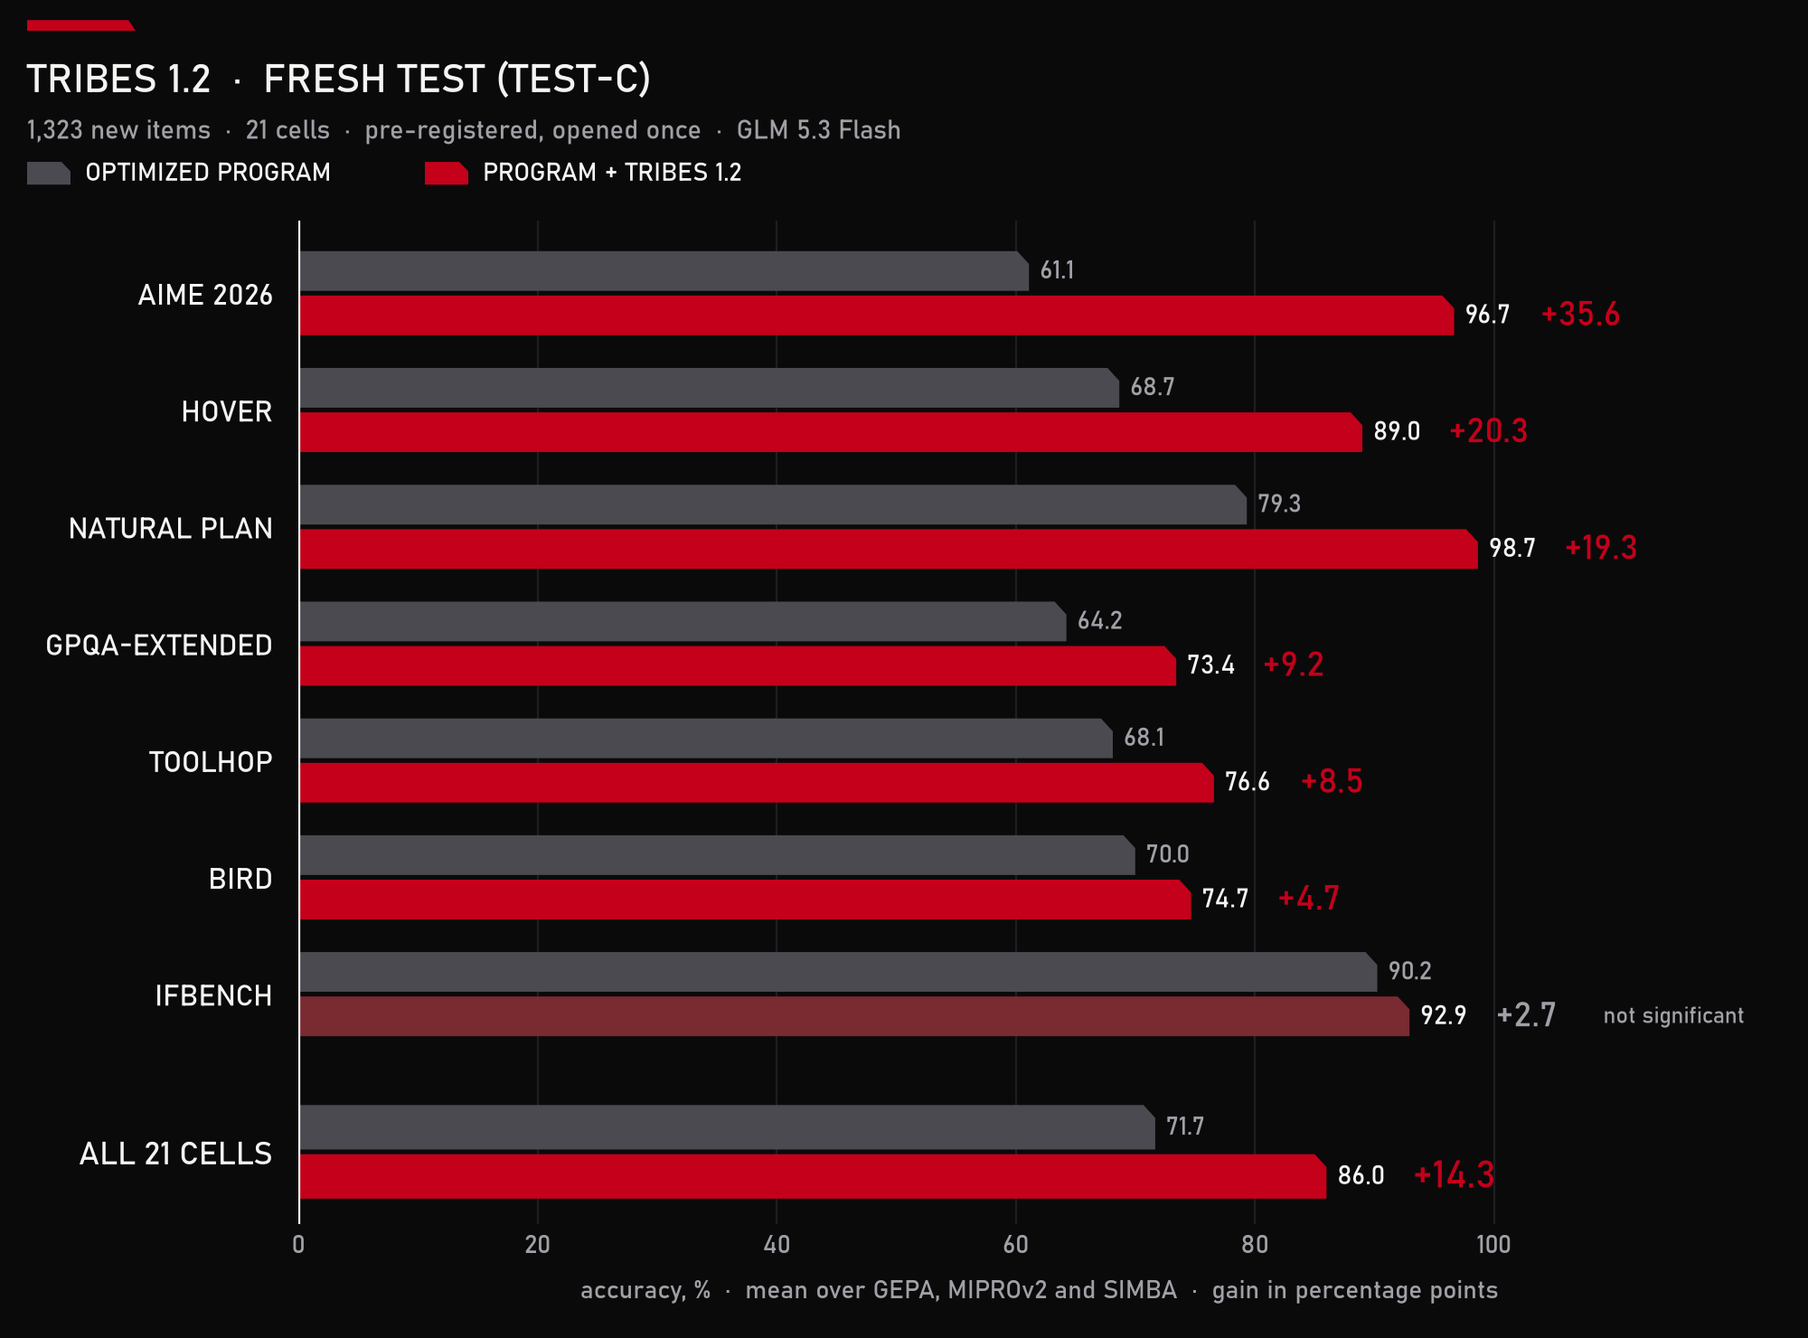
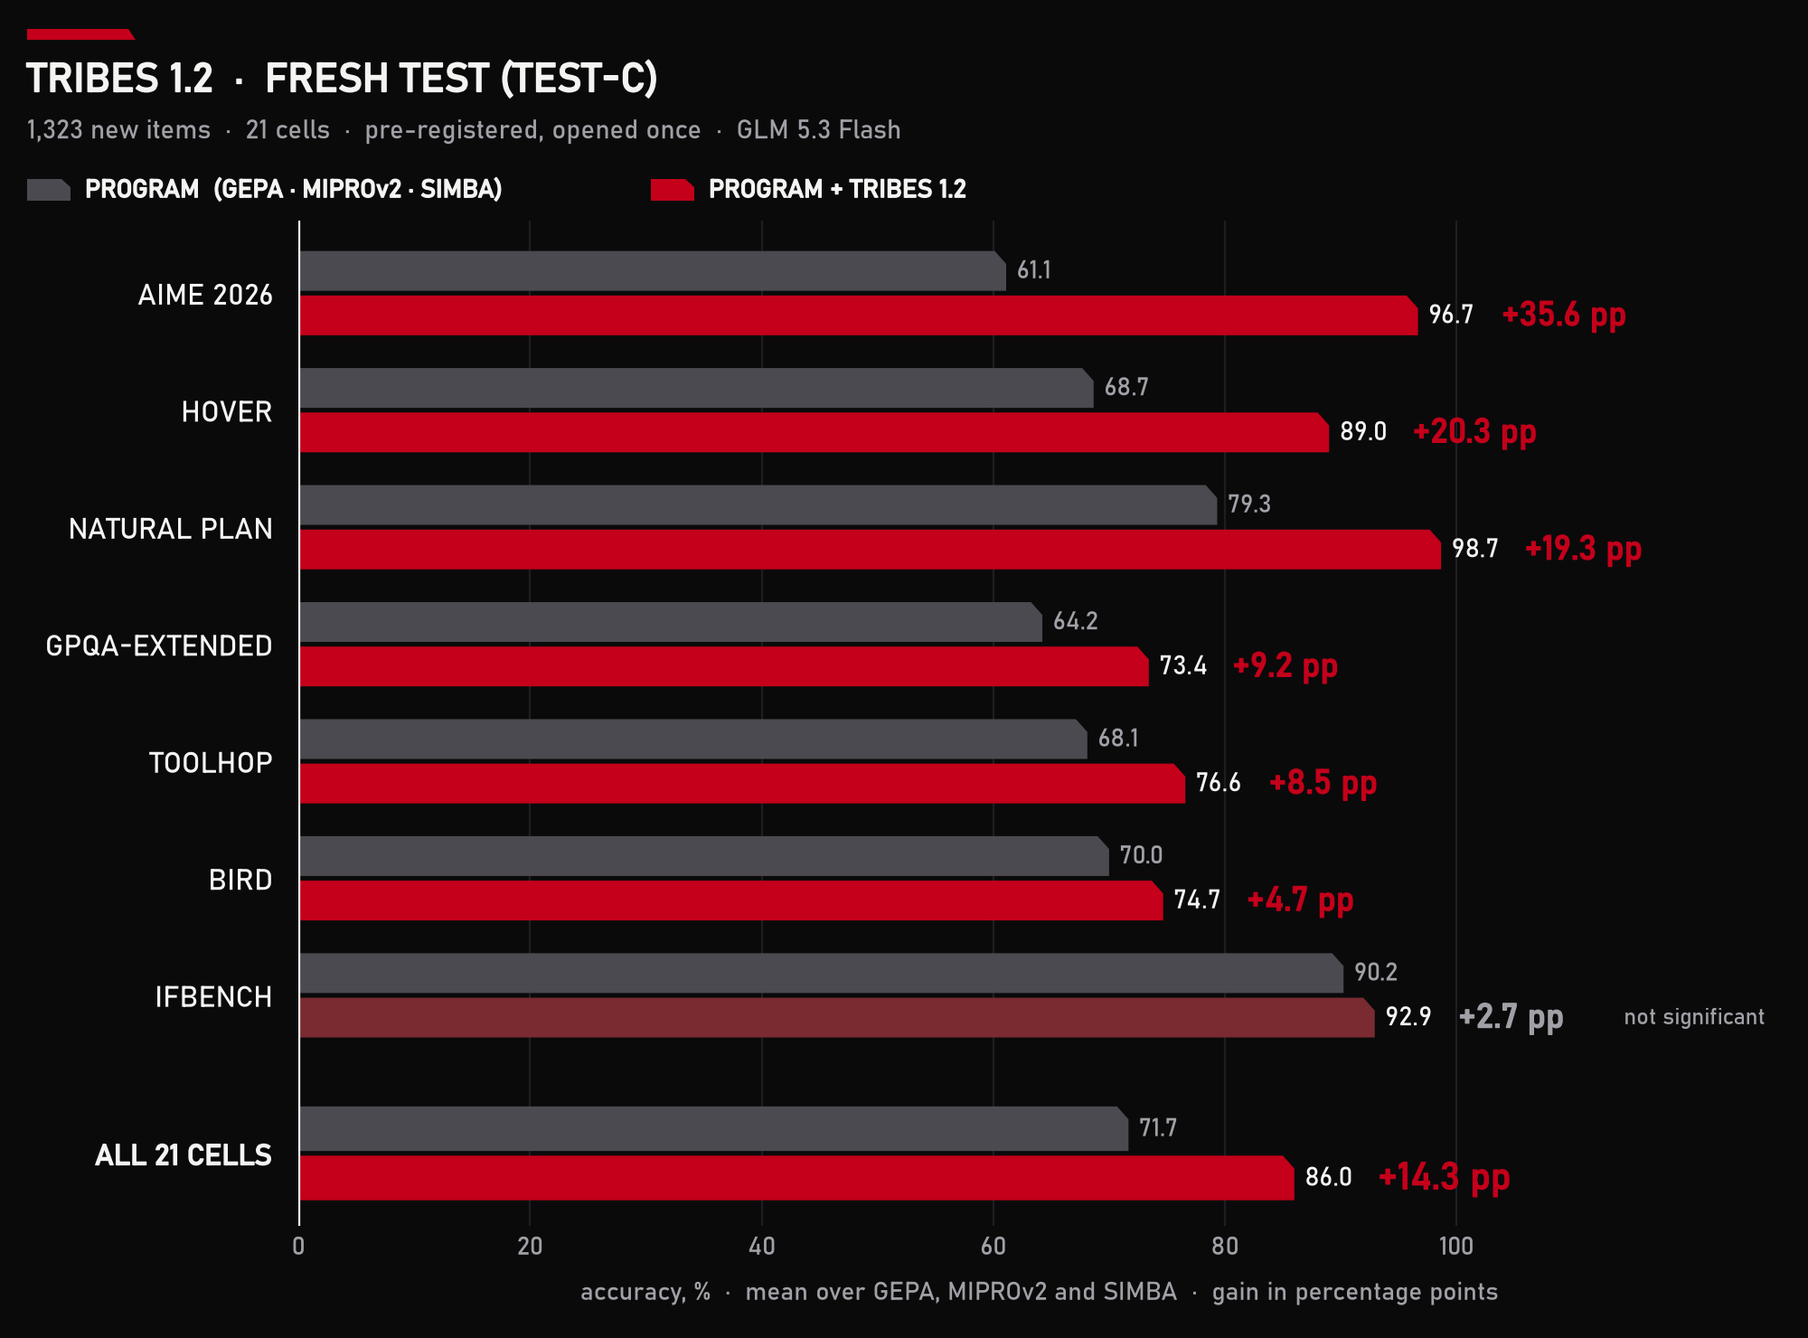
Results read GEPA vs GEPA + TRIBES: per-optimizer chart and table, gains in pp at the end of the red bars, table headers named <optimizer> + TRIBES

diff --git a/assets/src/chart_testc.py b/assets/src/chart_testc.py
@@ -1,5 +1,7 @@
-"""TEST-C chart: per benchmark, the optimizer's own program (grey) and the same program with TRIBES 1.2 (red),
-accuracy in %, mean over GEPA, MIPROv2 and SIMBA; the gain is printed at the end of the red bar.
+"""TEST-C charts: the optimizer's own program (grey) and the same program with TRIBES 1.2 (red), accuracy in %; the gain
+in percentage points is printed at the end of the red bar.
+  chart-testc-*      per benchmark, mean over GEPA, MIPROv2 and SIMBA
+  chart-testc-opt-*  per optimizer (GEPA vs GEPA + TRIBES, ...), mean over the seven benchmarks
 Source: research/results/testc_result.json. Usage: python chart_testc.py OUT_DIR"""
 import json
 import sys
@@ -9,7 +11,7 @@ import matplotlib
 
 matplotlib.use("Agg")
 import matplotlib.pyplot as plt  # noqa: E402
-from matplotlib import font_manager  # noqa: E402
+from matplotlib import font_manager, patheffects  # noqa: E402
 from matplotlib.patches import Polygon  # noqa: E402
 
 OUT = Path(sys.argv[1])
@@ -17,19 +19,35 @@ SRC = Path(__file__).resolve().parents[2] / "research/results/testc_result.json"
 font_manager.fontManager.addfont("C:/Windows/Fonts/bahnschrift.ttf")
 plt.rcParams["font.family"] = "Bahnschrift"
 
+
+def heavy(color, w=0.9):
+    """Bahnschrift is a variable font matplotlib reads at one weight: thicken the strokes instead."""
+    return [patheffects.withStroke(linewidth=w, foreground=color)]
+
+
 NAMES = {"aime": "AIME 2026", "hover": "HoVer", "natplan": "NATURAL PLAN", "gpqa": "GPQA-extended",
          "toolhop": "ToolHop", "bird": "BIRD", "ifbench": "IFBench"}
+OPTS = {"gepa": "GEPA", "mipro": "MIPROv2", "simba": "SIMBA"}
 res = json.load(open(SRC))
 cells = [c for c in res["cells"] if c["ok"]]
-rows = []
+P = res["primary"]
+
+# per benchmark: (label, grey label, red label, program, tribes, gain, significant)
+bench = []
 for ds, e in res["per_benchmark_holm"].items():
     cs = [c["info"] for c in cells if c["ds"] == ds]
     prog = sum(c["prog"] for c in cs) / len(cs)
-    rows.append((NAMES[ds], prog, prog + e["mean_pp"], e["mean_pp"], e["holm_claim"]))
-rows.sort(key=lambda r: -r[3])
-P = res["primary"]
-prog_all = sum(r[1] for r in rows) / len(rows)  # every benchmark has three cells: the cell mean equals this
-rows.append((f"ALL {P['cells']} CELLS", prog_all, prog_all + P["mean_pp"], P["mean_pp"], P["claim"]))
+    bench.append((NAMES[ds].upper(), None, None, prog, prog + e["mean_pp"], e["mean_pp"], e["holm_claim"]))
+bench.sort(key=lambda r: -r[5])
+prog_all = sum(r[3] for r in bench) / len(bench)  # every benchmark has three cells: the cell mean equals this
+bench.append((f"ALL {P['cells']} CELLS", None, None, prog_all, prog_all + P["mean_pp"], P["mean_pp"], P["claim"]))
+
+# per optimizer: mean over its seven cells (descriptive)
+opt = []
+for o, lab in OPTS.items():
+    cs = [c["info"] for c in cells if c["opt"] == o]
+    pr, tr = sum(c["prog"] for c in cs) / len(cs), sum(c["v12"] for c in cs) / len(cs)
+    opt.append((lab, lab, f"{lab} + TRIBES", pr, tr, tr - pr, True))
 
 THEMES = {
     "light": dict(bg="#FFFFFF", ink="#0A0A0B", muted="#5C5C62", grid="#E9E9EB", red="#A0000C", grey="#B9B9BE",
@@ -45,57 +63,81 @@ def bar(ax, y, v, color, h, cut=0.11):
     ax.add_patch(Polygon(pts, closed=True, facecolor=color, edgecolor="none", zorder=3))
 
 
-for name, t in THEMES.items():
-    fig, ax = plt.subplots(figsize=(10, 7.4), dpi=200)
-    fig.patch.set_facecolor(t["bg"])
-    ax.set_facecolor(t["bg"])
-    step, h, gap = 1.0, 0.34, 0.04
-    ys, y = [], 0.0
-    for i, r in enumerate(rows):
-        if i == len(rows) - 1:
-            y += 0.35  # a gap before the overall row
-        ys.append(y)
-        y += step
-    ys = [max(ys) - v for v in ys]
-    for (lab, prog, tri, gain, sig), yc in zip(rows, ys):
-        last = lab.startswith("ALL")
-        hh = h * (1.12 if last else 1.0)
-        yp, yt = yc + hh / 2 + gap / 2, yc - hh / 2 - gap / 2
-        bar(ax, yp, prog, t["grey"], hh)
-        bar(ax, yt, tri, t["red"] if sig else t["ns"], hh)
-        ax.text(prog + 0.9, yp, f"{prog:.1f}", va="center", ha="left", fontsize=10, color=t["muted"])
-        ax.text(tri + 0.9, yt, f"{tri:.1f}", va="center", ha="left", fontsize=10.5, color=t["ink"])
-        ax.text(tri + 7.2, yt, f"+{gain:.1f}", va="center", ha="left", fontsize=15 if last else 13.5,
-                color=t["red"] if sig else t["muted"], fontweight="bold")
-        if not sig:
-            ax.text(tri + 16.2, yt, "not significant", va="center", ha="left", fontsize=9, color=t["muted"])
-    ax.set_xlim(0, 124)
-    ax.set_ylim(min(ys) - 0.62, max(ys) + 0.62)
-    ax.set_yticks(ys, [r[0].upper() for r in rows])
-    for lbl, r in zip(ax.get_yticklabels(), rows):
-        lbl.set_color(t["ink"])
-        lbl.set_fontsize(12.5 if r[0].startswith("ALL") else 11.5)
-        lbl.set_fontweight("bold" if r[0].startswith("ALL") else "normal")
-    ax.tick_params(axis="y", length=0, pad=10)
-    ax.set_xticks(range(0, 101, 20))
-    ax.tick_params(axis="x", colors=t["muted"], labelsize=10, length=0)
-    ax.grid(axis="x", color=t["grid"], lw=0.8, zorder=0)
-    for s in ax.spines.values():
-        s.set_visible(False)
-    ax.axvline(0, color=t["ink"], lw=1.2, zorder=4)
-    ax.set_xlabel("accuracy, %  ·  mean over GEPA, MIPROv2 and SIMBA  ·  gain in percentage points",
-                  color=t["muted"], fontsize=10, labelpad=8)
-    fig.text(0.015, 0.955, "TRIBES 1.2  ·  FRESH TEST (TEST-C)", fontsize=16, fontweight="bold", color=t["ink"],
-             va="top")
-    fig.text(0.015, 0.912, "1,323 new items  ·  21 cells  ·  pre-registered, opened once  ·  GLM 5.3 Flash",
-             fontsize=10.5, color=t["muted"], va="top")
-    fig.add_artist(Polygon([(0.015, 0.977), (0.075, 0.977), (0.071, 0.985), (0.015, 0.985)], closed=True,
-                           transform=fig.transFigure, facecolor=t["red"], edgecolor="none"))
-    for x0, col, txt in ((0.015, t["grey"], "OPTIMIZED PROGRAM"), (0.235, t["red"], "PROGRAM + TRIBES 1.2")):
-        fig.add_artist(Polygon([(x0, 0.862), (x0 + 0.024, 0.862), (x0 + 0.024, 0.872), (x0 + 0.019, 0.879), (x0, 0.879)],
-                               closed=True, transform=fig.transFigure, facecolor=col, edgecolor="none"))
-        fig.text(x0 + 0.032, 0.8705, txt, fontsize=10, color=t["ink"], va="center", fontweight="bold")
-    fig.subplots_adjust(left=0.165, right=0.985, top=0.835, bottom=0.085)
-    fig.savefig(OUT / f"chart-testc-{name}.png", facecolor=t["bg"])
-    plt.close(fig)
-print("ok", [(r[0], round(r[1], 1), round(r[2], 1), r[3]) for r in rows])
+def draw(rows, fname, title, subtitle, legend, xlabel, size, left, per_bar):
+    for name, t in THEMES.items():
+        fig, ax = plt.subplots(figsize=size, dpi=200)
+        fig.patch.set_facecolor(t["bg"])
+        ax.set_facecolor(t["bg"])
+        h, gap = 0.34, 0.04
+        ys, y = [], 0.0
+        for i, r in enumerate(rows):
+            if r[0].startswith("ALL"):
+                y += 0.35  # a gap before the overall row
+            ys.append(y)
+            y += 1.0
+        ys = [max(ys) - v for v in ys]
+        ticks, labels, colors = [], [], []
+        for (lab, gl, rl, prog, tri, gain, sig), yc in zip(rows, ys):
+            last = lab.startswith("ALL")
+            hh = h * (1.12 if last else 1.0)
+            yp, yt = yc + hh / 2 + gap / 2, yc - hh / 2 - gap / 2
+            bar(ax, yp, prog, t["grey"], hh)
+            bar(ax, yt, tri, t["red"] if sig else t["ns"], hh)
+            ax.text(prog + 0.9, yp, f"{prog:.1f}", va="center", ha="left", fontsize=10, color=t["muted"])
+            ax.text(tri + 0.9, yt, f"{tri:.1f}", va="center", ha="left", fontsize=10.5, color=t["ink"])
+            c = t["red"] if sig else t["muted"]
+            ax.text(tri + 7.2, yt, f"+{gain:.1f} pp", va="center", ha="left", fontsize=15 if last else 13.5, color=c,
+                    path_effects=heavy(c, 0.5))
+            if not sig:
+                ax.text(tri + 21.5, yt, "not significant", va="center", ha="left", fontsize=9, color=t["muted"])
+            if per_bar:
+                ticks += [yp, yt]
+                labels += [gl, rl]
+                colors += [t["muted"], t["red"]]
+            else:
+                ticks.append(yc)
+                labels.append(lab)
+                colors.append(t["ink"])
+        ax.set_xlim(0, 128)
+        ax.set_ylim(min(ys) - 0.62, max(ys) + 0.62)
+        ax.set_yticks(ticks, labels)
+        for lbl, col in zip(ax.get_yticklabels(), colors):
+            lbl.set_color(col)
+            lbl.set_fontsize(12.5 if per_bar else 11.5)
+            if per_bar and col == t["red"] or lbl.get_text().startswith("ALL"):
+                lbl.set_path_effects(heavy(col, 0.5))
+        ax.tick_params(axis="y", length=0, pad=10)
+        ax.set_xticks(range(0, 101, 20))
+        ax.tick_params(axis="x", colors=t["muted"], labelsize=10, length=0)
+        ax.grid(axis="x", color=t["grid"], lw=0.8, zorder=0)
+        for s in ax.spines.values():
+            s.set_visible(False)
+        ax.axvline(0, color=t["ink"], lw=1.2, zorder=4)
+        ax.set_xlabel(xlabel, color=t["muted"], fontsize=10, labelpad=8)
+        H = size[1]
+        top = 1 - 0.33 / H
+        fig.text(0.015, top, title, fontsize=16, color=t["ink"], va="top", path_effects=heavy(t["ink"], 0.6))
+        fig.text(0.015, top - 0.32 / H, subtitle, fontsize=10.5, color=t["muted"], va="top")
+        yb = 1 - 0.22 / H
+        fig.add_artist(Polygon([(0.015, yb), (0.075, yb), (0.071, yb + 0.06 / H), (0.015, yb + 0.06 / H)], closed=True,
+                               transform=fig.transFigure, facecolor=t["red"], edgecolor="none"))
+        if legend:
+            yl = top - 0.72 / H
+            for x0, col, txt in ((0.015, t["grey"], legend[0]), (0.36, t["red"], legend[1])):
+                fig.add_artist(Polygon([(x0, yl - 0.06 / H), (x0 + 0.024, yl - 0.06 / H), (x0 + 0.024, yl + 0.015 / H),
+                                        (x0 + 0.019, yl + 0.06 / H), (x0, yl + 0.06 / H)],
+                                       closed=True, transform=fig.transFigure, facecolor=col, edgecolor="none"))
+                fig.text(x0 + 0.032, yl, txt, fontsize=10, color=t["ink"], va="center", path_effects=heavy(t["ink"], 0.5))
+        fig.subplots_adjust(left=left, right=0.985, top=1 - (1.22 if legend else 0.95) / H, bottom=0.62 / H)
+        fig.savefig(OUT / f"{fname}-{name}.png", facecolor=t["bg"])
+        plt.close(fig)
+
+
+draw(bench, "chart-testc", "TRIBES 1.2  ·  FRESH TEST (TEST-C)",
+     "1,323 new items  ·  21 cells  ·  pre-registered, opened once  ·  GLM 5.3 Flash",
+     ("PROGRAM  (GEPA · MIPROv2 · SIMBA)", "PROGRAM + TRIBES 1.2"),
+     "accuracy, %  ·  mean over GEPA, MIPROv2 and SIMBA  ·  gain in percentage points", (10, 7.4), 0.165, False)
+draw(opt, "chart-testc-opt", "EVERY OPTIMIZER, PLUS TRIBES 1.2  ·  TEST-C",
+     "accuracy, %, mean over the seven benchmarks of each optimizer  ·  1,323 new items  ·  GLM 5.3 Flash", None,
+     "accuracy, %  ·  gain in percentage points", (10, 4.1), 0.2, True)
+print("ok", [(r[0], round(r[3], 1), round(r[4], 1), round(r[5], 2)) for r in bench + opt])

diff --git a/README.md b/README.md
@@ -40,12 +40,25 @@ Inference-time answer selection for optimized DSPy programs
 
 | | AIME 2026 | HoVer | NATURAL PLAN | GPQA-ext. | ToolHop | BIRD | IFBench | **all 21 cells** |
 |---|---|---|---|---|---|---|---|---|
-| optimized program | 61.1 | 68.7 | 79.3 | 64.2 | 68.1 | 70.0 | 90.2 | **71.7** |
-| **+ TRIBES 1.2** | **96.7** | **89.0** | **98.7** | **73.4** | **76.6** | **74.7** | 92.9 | **86.0** |
-| gain, pp | **+35.6** | **+20.3** | **+19.3** | **+9.2** | **+8.5** | **+4.7** | +2.7 | **+14.3** |
+| program (GEPA · MIPROv2 · SIMBA) | 61.1 | 68.7 | 79.3 | 64.2 | 68.1 | 70.0 | 90.2 | **71.7** |
+| **program + TRIBES 1.2** | **96.7** | **89.0** | **98.7** | **73.4** | **76.6** | **74.7** | 92.9 | **86.0** |
+| gain | **+35.6 pp** | **+20.3 pp** | **+19.3 pp** | **+9.2 pp** | **+8.5 pp** | **+4.7 pp** | +2.7 pp | **+14.3 pp** |
 
-Accuracy in %, mean over the three optimizers; bold gains are significant (one-sided α = 0.025, Holm over the seven
-benchmarks; all cells: 95 % CI [+11.9, +16.8]). Details, every cell and the earlier tests: [Results](#results).
+<p align="center">
+  <picture>
+    <source media="(prefers-color-scheme: dark)" srcset="https://raw.githubusercontent.com/daglar-dragomirov/tribes/main/assets/chart-testc-opt-dark.png">
+    <img src="https://raw.githubusercontent.com/daglar-dragomirov/tribes/main/assets/chart-testc-opt-light.png" alt="TEST-C per optimizer: GEPA vs GEPA + TRIBES, MIPROv2 vs MIPROv2 + TRIBES, SIMBA vs SIMBA + TRIBES" width="820">
+  </picture>
+</p>
+
+| | GEPA | **GEPA + TRIBES** | MIPROv2 | **MIPROv2 + TRIBES** | SIMBA | **SIMBA + TRIBES** |
+|---|---|---|---|---|---|---|
+| accuracy, % (7 benchmarks) | 70.9 | **87.3** | 71.0 | **85.5** | 73.0 | **85.1** |
+| gain | | **+16.4 pp** | | **+14.5 pp** | | **+12.1 pp** |
+
+Accuracy in %; gains in percentage points (pp) over the same optimizer's own program on the same items. Bold gains in
+the benchmark table are significant (one-sided α = 0.025, Holm over the seven benchmarks; all cells: 95 % CI
+[+11.9, +16.8]); the per-optimizer rows are descriptive. Details, every cell and the earlier tests: [Results](#results).
 
 ---
 
@@ -189,7 +202,7 @@ bound. — : no held-out items for that benchmark in that test. Bold in the 1.2 
 **Fresh test (TEST-C, TRIBES 1.2)** — 1,323 new items, used nowhere in development or in the earlier tests; the 1.2
 settings and the analysis were pre-registered before any model saw them (chart at the top of this page):
 
-| benchmark (test items per cell) | over GEPA | over MIPROv2 | over SIMBA | benchmark mean, 95 % CI |
+| benchmark (test items per cell) | GEPA + TRIBES | MIPROv2 + TRIBES | SIMBA + TRIBES | benchmark mean, 95 % CI |
 |---|---|---|---|---|
 | AIME 2026 (30, shared) | +36.7 | +43.3 | +26.7 | **+35.6** [+24.4, +47.8] |
 | HoVer (100) | +23.0 | +19.0 | +19.0 | **+20.3** [+16.0, +25.0] |
@@ -214,7 +227,7 @@ policy and the analysis were pre-registered before any model saw them:
   <img src="https://raw.githubusercontent.com/daglar-dragomirov/tribes/main/assets/chart-testb-light.png" alt="TEST-B: TRIBES 1.1 minus the program per benchmark, 95 % CI" width="760">
 </picture>
 
-| benchmark (test items) | over GEPA | over MIPROv2 | over SIMBA | benchmark mean, 95 % CI |
+| benchmark (test items) | GEPA + TRIBES | MIPROv2 + TRIBES | SIMBA + TRIBES | benchmark mean, 95 % CI |
 |---|---|---|---|---|
 | HoVer (150) | +12.7 | +8.0 | +16.7 | **+12.4** [+8.9, +16.4] |
 | HotpotQA (200) | +7.0 | +3.0 | +2.5 | **+4.2** [+1.8, +6.8] |
@@ -230,7 +243,7 @@ more sampling.
 
 **Sealed test (TEST-A)** — opened once, after the rule and every per-task decision were frozen (TRIBES 1.0-lite):
 
-| benchmark (test items) | over GEPA | over MIPROv2 | over SIMBA |
+| benchmark (test items) | GEPA + TRIBES | MIPROv2 + TRIBES | SIMBA + TRIBES |
 |---|---|---|---|
 | NATURAL PLAN (200) | **+13.5** | **+17.0** | **+10.5** |
 | LiveCodeBench (82) | **+11.0** | **+14.6** | **+13.4** |
@@ -243,7 +256,7 @@ Bold: 95 % confidence interval above zero. No cell has its interval below zero.
 
 **Development (TRIBES 1.1)** — 13 benchmarks × 3 optimizers = 36 cells, post hoc:
 
-| benchmark | over GEPA | over MIPROv2 | over SIMBA |
+| benchmark | GEPA + TRIBES | MIPROv2 + TRIBES | SIMBA + TRIBES |
 |---|---|---|---|
 | AIME | +38.0 | +23.3 | +32.0 |
 | BIRD | +28.5 | +15.0 | +26.0 |
@@ -261,9 +274,9 @@ Bold: 95 % confidence interval above zero. No cell has its interval below zero.
 
 | | TRIBES 1.1 | 1.0 full | 1.0 lite |
 |---|---|---|---|
-| over GEPA | +11.9 | +10.1 | +9.3 |
-| over MIPROv2 | +10.8 | +8.7 | +8.4 |
-| over SIMBA | +12.1 | +9.6 | +8.9 |
+| GEPA + TRIBES | +11.9 | +10.1 | +9.3 |
+| MIPROv2 + TRIBES | +10.8 | +8.7 | +8.4 |
+| SIMBA + TRIBES | +12.1 | +9.6 | +8.9 |
 | **all 36 cells** | **+11.6** | **+9.5** | **+8.9** |
 
 No cell below the program. What 1.1 adds over 1.0 here: BIRD agents that can run SQL, the set merge on HoVer, the

diff --git a/docs/results.md b/docs/results.md
@@ -1,7 +1,7 @@
 # Results
 
 GLM 5.3 Flash as the task model; each optimizer with its official settings; every number is TRIBES minus that
-optimizer's own program on the same items, in percentage points.
+optimizer's own program on the same items, in percentage points (pp).
 
 ## At a glance
 
@@ -39,7 +39,12 @@ settings and the analysis were pre-registered before any model saw the items, an
 ![TEST-C: the optimized program (grey) and the program with TRIBES 1.2 (red)](assets/chart-testc-dark.png#only-dark)
 </figure>
 
-| benchmark (test items per cell) | over GEPA | over MIPROv2 | over SIMBA | benchmark mean, 95 % CI |
+<figure class="tb-figure" markdown>
+![TEST-C per optimizer: GEPA vs GEPA + TRIBES and so on](assets/chart-testc-opt-light.png#only-light)
+![TEST-C per optimizer: GEPA vs GEPA + TRIBES and so on](assets/chart-testc-opt-dark.png#only-dark)
+</figure>
+
+| benchmark (test items per cell) | GEPA + TRIBES | MIPROv2 + TRIBES | SIMBA + TRIBES | benchmark mean, 95 % CI |
 |---|---|---|---|---|
 | AIME 2026 (30, shared) | +36.7 | +43.3 | +26.7 | **+35.6** [+24.4, +47.8] |
 | HoVer (100) | +23.0 | +19.0 | +19.0 | **+20.3** [+16.0, +25.0] |
@@ -67,7 +72,7 @@ any model saw them, and the items were opened once.
 ![TEST-B: TRIBES 1.1 minus the program per benchmark](assets/chart-testb-dark.png#only-dark)
 </figure>
 
-| benchmark (test items) | over GEPA | over MIPROv2 | over SIMBA | benchmark mean, 95 % CI |
+| benchmark (test items) | GEPA + TRIBES | MIPROv2 + TRIBES | SIMBA + TRIBES | benchmark mean, 95 % CI |
 |---|---|---|---|---|
 | HoVer (150) | +12.7 | +8.0 | +16.7 | **+12.4** [+8.9, +16.4] |
 | HotpotQA (200) | +7.0 | +3.0 | +2.5 | **+4.2** [+1.8, +6.8] |
@@ -96,7 +101,7 @@ The pre-registration and the full report are in `research/reports/` (`PREREG-TES
 
 Opened once, after the rule and every per-task decision were frozen.
 
-| benchmark (test items) | over GEPA | over MIPROv2 | over SIMBA |
+| benchmark (test items) | GEPA + TRIBES | MIPROv2 + TRIBES | SIMBA + TRIBES |
 |---|---|---|---|
 | NATURAL PLAN (200) | **+13.5** | **+17.0** | **+10.5** |
 | LiveCodeBench (82) | **+11.0** | **+14.6** | **+13.4** |
@@ -112,7 +117,7 @@ Bold: 95 % confidence interval above zero. No cell has its interval below zero. 
 13 benchmarks (AIME, GPQA, LiveBench, LiveCodeBench, HotpotQA, HoVer, IFBench, PUPA, BFCL, τ²-bench, NATURAL PLAN,
 BIRD, ToolHop) × 3 optimizers = 36 cells, post hoc.
 
-| benchmark | over GEPA | over MIPROv2 | over SIMBA |
+| benchmark | GEPA + TRIBES | MIPROv2 + TRIBES | SIMBA + TRIBES |
 |---|---|---|---|
 | AIME | +38.0 | +23.3 | +32.0 |
 | BIRD | +28.5 | +15.0 | +26.0 |
@@ -130,9 +135,9 @@ BIRD, ToolHop) × 3 optimizers = 36 cells, post hoc.
 
 | | TRIBES 1.1 | 1.0 full | 1.0 lite |
 |---|---|---|---|
-| over GEPA | +11.9 | +10.1 | +9.3 |
-| over MIPROv2 | +10.8 | +8.7 | +8.4 |
-| over SIMBA | +12.1 | +9.6 | +8.9 |
+| GEPA + TRIBES | +11.9 | +10.1 | +9.3 |
+| MIPROv2 + TRIBES | +10.8 | +8.7 | +8.4 |
+| SIMBA + TRIBES | +12.1 | +9.6 | +8.9 |
 | **all 36 cells** | **+11.6** | **+9.5** | **+8.9** |
 
 No cell below the program. What 1.1 adds over 1.0 here: BIRD agents that can run SQL, the set merge on HoVer, the
